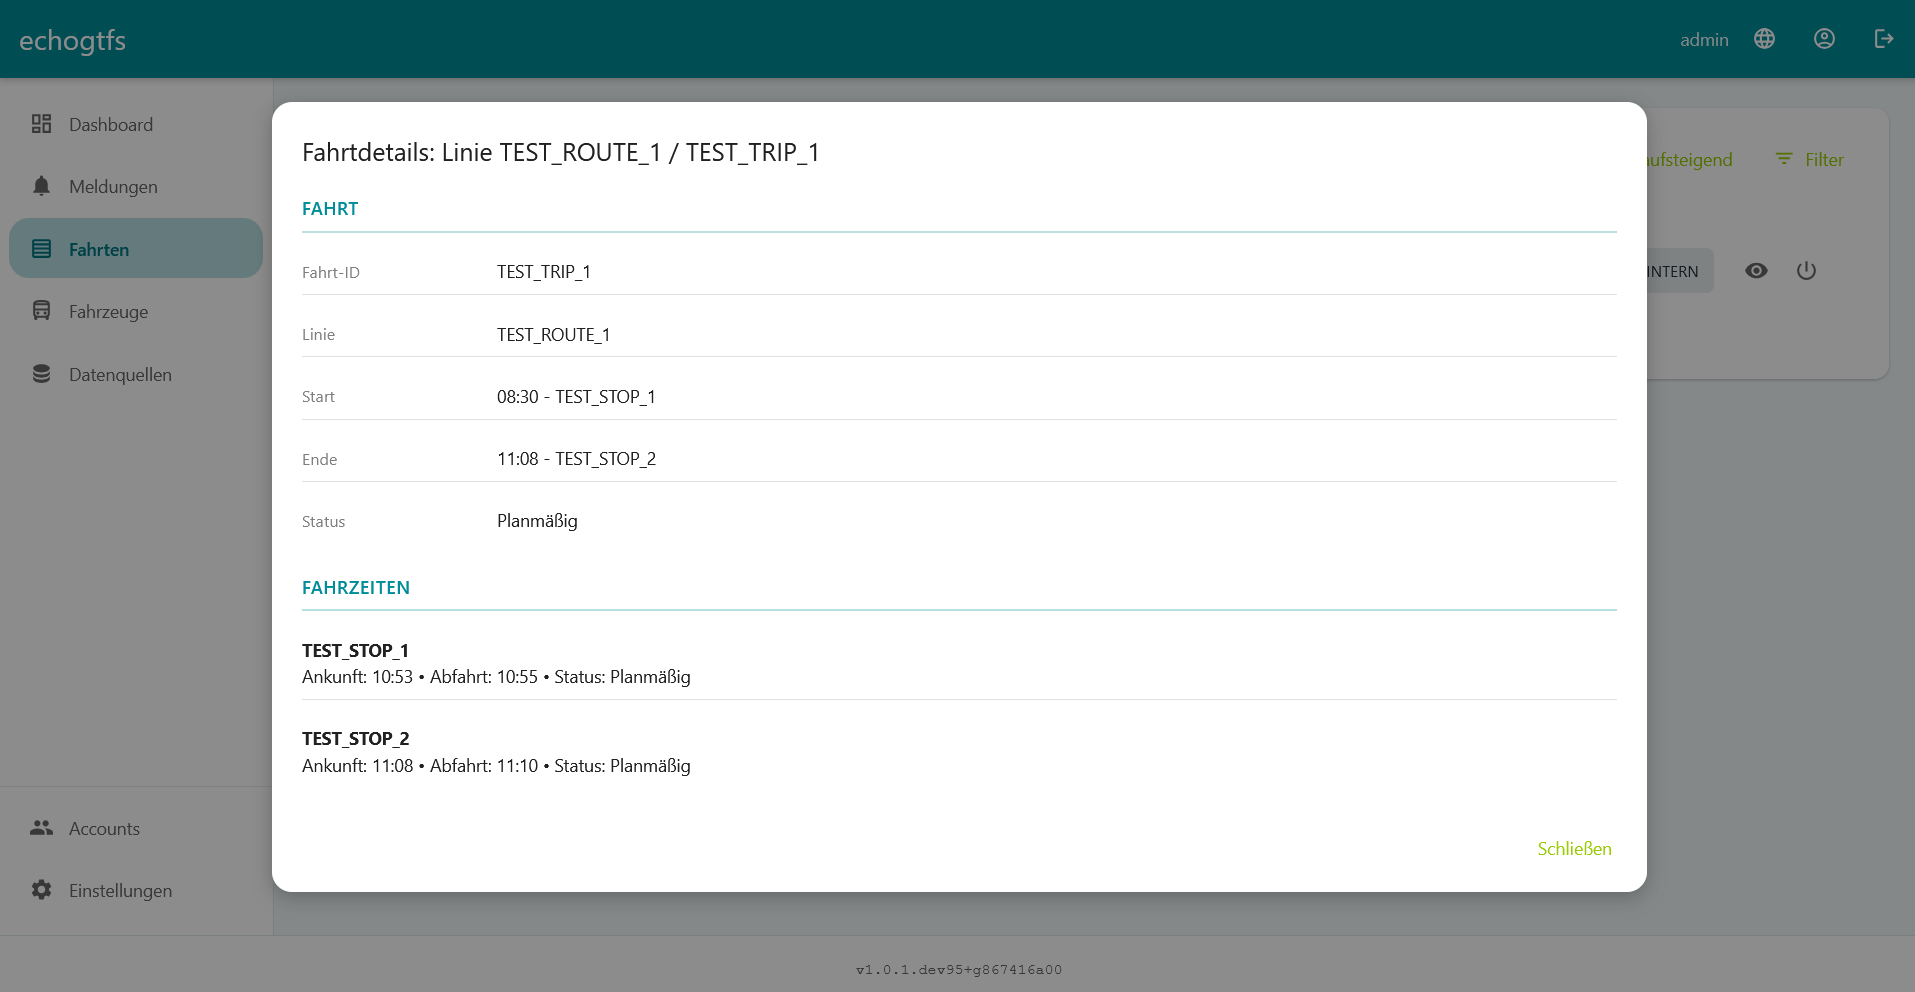
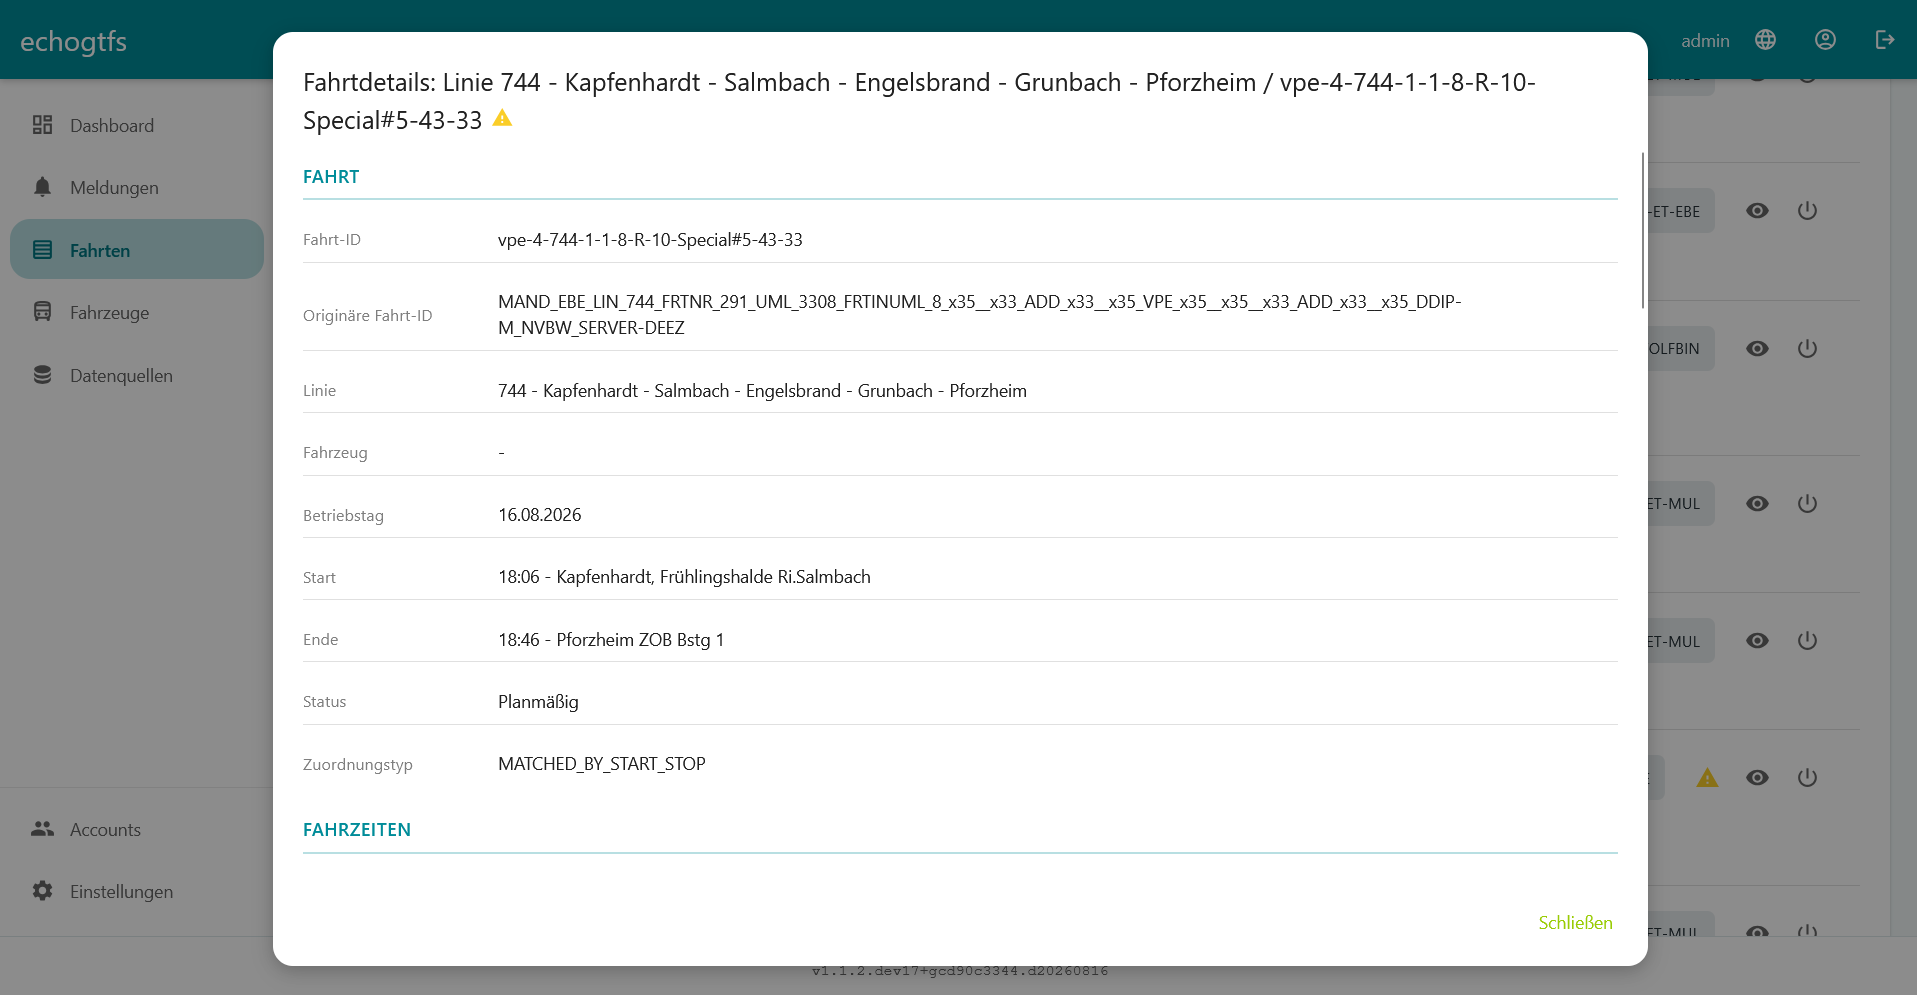
updated manual with latest improvements for trip updates

diff --git a/docs/manual/source/views/trips.md b/docs/manual/source/views/trips.md
@@ -1,3 +1,5 @@
+(h-trips-trips)=
+
 # Fahrten
 
 Im Bereich "Fahrten" werden alle aktuellen Fahrten angezeigt.
@@ -21,6 +23,7 @@ Im Bereich "Fahrten" werden alle aktuellen Fahrten angezeigt.
     - **Datenquelle**: Name der Datenquelle von der eine Fahrt synchronisiert wurde
     - **Aktivierungsstatus**: Information, wenn eine Fahrt deaktiviert wurde. Deaktivierte Fahrten werden in der GTFS-RT Ausgabe unterdrückt. Über den "On/Off" Button können Fahrten aktiviert oder deaktiviert werden.
     - **Fehlerstatus**: Rotes Warndreieck, wenn eine Fahrt ungültige Bezüge (insb. Linie und Haltestelle) aufweist. Solange die Fahrt nicht deaktiviert ist, wird sie weiterhin über GTFS-RT ausgegeben und kann dadurch zu Fehlern bei Abnehmersystemen führen
+    - **Überwachungsstatus**: Gelbes Warndreieck, wenn eine Fahrt aktuell überwacht wird (d.h. von EchoGTFS erkannt und gematched wurde), aber noch keine Prognosedaten enthält
 
 Um die Details zu einer Fahrt anzuzeigen, klicken Sie auf den "View" Button in der entsprechenden Zeile. Daraufhin wird folgender Dialog gezeigt, in dem alle wichtigen Informationen rund um die Fahrt zu sehen sind:
 
@@ -28,7 +31,9 @@ Um die Details zu einer Fahrt anzuzeigen, klicken Sie auf den "View" Button in d
 :name: img-trips-detail-screen
 ```
 
-- Im oberen Bereich des Dialogs werden alle Basisdaten wie **Fahrt-ID**, **Linie**, **Originäre Fahrt-ID**, **Betriebstag, Fahrtstart und -Ende**, sowie **Status** der Fahrt angezeigt. Die Fahrt-ID ist die ID, mit der die Fahrt im GTFS-RT publiziert wird und die zum Soll-Fahrplan passt. Die originäre Fahrt-ID ist die ID, mit der die Fahrt aus der Datenquelle synchronisiert wurde.
+- Im oberen Bereich des Dialogs werden alle Basisdaten wie **Fahrt-ID**, **Linie**, **Fahrzeug**, **Originäre Fahrt-ID**, **Betriebstag, Fahrtstart und -Ende**, sowie **Status** der Fahrt angezeigt. Die Fahrt-ID ist die ID, mit der die Fahrt im GTFS-RT publiziert wird und die zum Soll-Fahrplan passt. Die originäre Fahrt-ID ist die ID, mit der die Fahrt aus der Datenquelle synchronisiert wurde.
+- Ein Fahrzeug wird zu einer Fahrt dann angezeigt, wenn über eine entsprechende Datenquelle (z.B. SIRI-VM) ein Fahrzeug für diese Fahrt erkannt wurde
+- Die Daten für Start und Ende beziehen sich jeweils auf die _Soll-Ankunfts- und Abfahrtszeit_ und berücksichtigen _keine Prognosedaten_! Auf diesem Weg wird eine einfache Identifikation der Fahrt im Soll-Fahrplan möglich.
 - Im unteren Bereich werden die einzelnen Haltestellen der Fahrt mit **Ankunftszeit**, **Abfahrtszeit**, **Status** und **Zuordnungstyp** angezeigt. Der Zuordnungstyp gibt an, auf welchem Weg eine Fahrt aus der Datenquelle einer konkreten Fahrt im Sollfahrplan zugeordnet wurde. Folgende Werte können hier auftauchen:
     - `DIRECT_BY_ID`: die Fahrt wurde anhand ihrer ID im Soll-Fahrplan gefunden
     - `MATCHED_BY_START_STOP`: die Fahrt wurde anhand ihrer Start- und Endhaltestelle, sowie der Abfahrts- und Ankunftszeit im Soll-Fahrplan gefunden

diff --git a/docs/manual/source/datasources/siriet.md b/docs/manual/source/datasources/siriet.md
@@ -26,6 +26,10 @@ Die folgenden Parameter können in der Konfiguration der Datenquelle gesetzt wer
 - **Filter**: Optionaler Filter für Betreiberkennungen.
   - Ergebnis: Wenn ein Filter gesetzt ist, werden nur Fahrten aus passenden Betreiberreferenzen berücksichtigt. `*` wird als Wildcard behandelt und steht für beliebig viele beliebige Zeichen.
 
+```{warning}
+In der aktuellen Umsetzungsvariante wird die Ausgabe von Zusatzhalten über GTFS-RT nicht unterstützt! Die hierzu notwendige [Erweiterung mit `TripModifications`](https://gtfs.org/documentation/realtime/reference/#message-tripmodifications) ist aktuell noch experimentell und [wird von GoogleTransit noch nicht unterstützt](https://developers.google.com/transit/gtfs-realtime/reference?hl=de).
+```
+
 ## Verfügbare Dialekte
 
 Die SIRI-ET-Datenquelle verwendet den folgenden Dialekte:

diff --git a/docs/manual/source/datasources/sirilite.md b/docs/manual/source/datasources/sirilite.md
@@ -24,6 +24,10 @@ Die folgenden Parameter können in der Konfiguration der Datenquelle gesetzt wer
 - **Filter**: Optionaler Filter für Betreiberkennungen.
   - Ergebnis: Wenn ein Filter gesetzt ist, werden nur passende Betreibergruppen berücksichtigt. `*` wird als Wildcard behandelt und steht für beliebig viele beliebige Zeichen.
 
+```{warning}
+In der aktuellen Umsetzungsvariante wird die Ausgabe von Zusatzhalten über GTFS-RT nicht unterstützt! Die hierzu notwendige [Erweiterung mit `TripModifications`](https://gtfs.org/documentation/realtime/reference/#message-tripmodifications) ist aktuell noch experimentell und [wird von GoogleTransit noch nicht unterstützt](https://developers.google.com/transit/gtfs-realtime/reference?hl=de).
+```
+
 ## Verfügbare Dialekte
 
 Die SIRI-Lite-Datenquelle verwendet die folgenden Dialekte:

diff --git a/docs/manual/source/views/dashboard.md b/docs/manual/source/views/dashboard.md
@@ -7,5 +7,6 @@ Das Dashboard zeigt eine Übersicht über den aktuellen Systemstatus.
 ```
 
 - Für alle Objekte wird die Anzahl der **aktuell aktivierten Objekte** und die Anzahl der inaktiven Objekte angezeigt
+- Bei **Fahrten** wird weiter zwischen **aktiven** und **überwachten** Fahrten differenziert. Eine aktive Fahrt ist dabei eine Fahrt, die Prognosedaten enthält und auch mit diesen nach außen kommuniziert wird. Eine überwachte Fahrt ist eine Fahrt, die von EchoGTFS bereits erkannt und gematched wurde, aber noch keine Prognosedaten enthält
 - Im unteren Bereich werden die jeweils konfigurierten öffentlichen GTFS-RT Endpunkte angezeigt
     - Über die Buttons "PBF" und "JSON" werden die URLs in die Zwischenablage kopiert, die zum Abruf der Daten als **ProtoBuf** und **JSON** verwendet werden können

diff --git a/docs/manual/source/administration/system-settings.md b/docs/manual/source/administration/system-settings.md
@@ -29,6 +29,7 @@ Im Abschnitt "GTFS-Realtime" können Sie folgende Einstellungen vornehmen:
 - **GTFS-RT VehiclePositions Pfad**: Pfad zum öffentlichen GTFS-RT Endpunkt für VehiclePositions
 - **BasicAuth Benutzername:** _(optional)_ Benutzername um die GTFS-RT Endpunkte mit BasicAuth abzusichern
 - **BasicAuth Passwort:** _(optional)_ Password um die GTFS-RT Endpunkte mit BasicAuth abzusichern
+- **Fahrten ohne Echtzeitdaten aus TripUpdates ausschließen**: Schließt überwachte Fahrten (siehe dazu {ref}`h-trips-trips`) aus dem GTFS-RT feed aus
 
 (h-system-settings-cleanup)=
 
